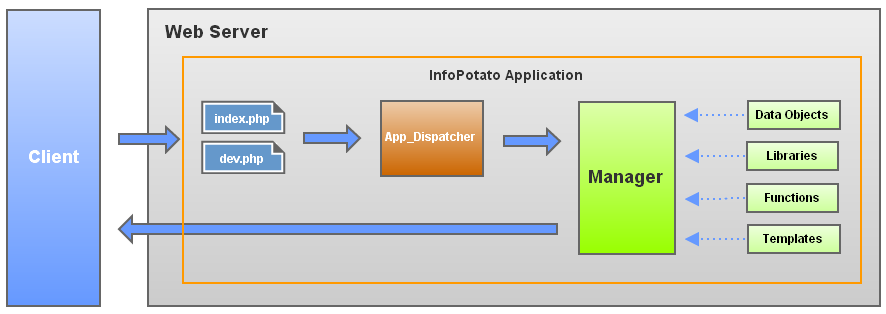
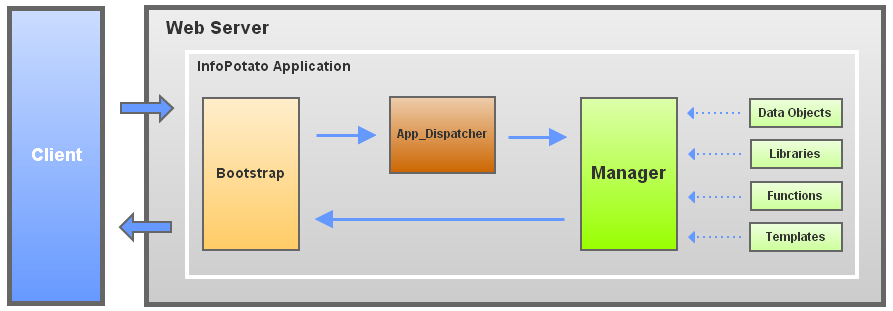
updated workflow picture

Changed region(s): [[0.0, 0.0, 1.0, 1.0]]

diff --git a/application/templates/pages/documentation_workflow.php b/application/templates/pages/documentation_workflow.php
@@ -15,9 +15,9 @@
 If you want to go deeper with InfoPotato, you should understand how information flows between the framework's layers.
 </p>
 
-<div class="tipbox">
+<h2>Static requests &amp; Application requests</h2>
 <p>
-There are two types of requests, <strong>Static requests</strong> and <strong>Application requests</strong>.
+There are two types of requests, Static requests and Application requests.
 </p>
 
 <ul>
@@ -25,19 +25,19 @@ There are two types of requests, <strong>Static requests</strong> and <strong>Ap
 <strong>Static requests</strong> are made to the static resources and are not handled by InfoPotato. 
 </li>
 <li>
-<strong>Application requests</strong> are requests forwarded to InfoPotato for parsing.
+<strong>Application requests</strong> are requests forwarded to InfoPotato for processing.
 </li>
 </ul>
-</div>
 
-<h2>Request -> Dispatcher - > (Manager -> Response) Lifecycle</h2>
+
+<h2>Application Request &rarr; Bootstrap &rarr; Dispatcher &rarr; (Manager &rarr; Response)</h2>
 <p>
 Every request handled by an InfoPotato application goes through the same basic lifecycle. The framework takes care of the repetitive tasks and ultimately executes a manager, which houses your custom application code. The picture below shows the basic workflow of an application request processed by InfoPotato.
 </p>
 
 <div class="content_image"> 
 <p><strong>A typical workflow of InfoPotato application</strong></p> 
-<img src="<?php echo STATIC_URI_BASE; ?>images/content/workflow.png" width="886" height="314" alt="InfoPotato Application Workflow" /> 
+<img src="<?php echo STATIC_URI_BASE; ?>images/content/workflow.png" width="893" height="311" alt="InfoPotato Application Workflow" /> 
 </div> 
 
 <ol> 
@@ -45,7 +45,7 @@ Every request handled by an InfoPotato application goes through the same basic l
 The end user interacts (for example, by clicking on a hyperlink or entering a Web site address) with the client (browser, web services client) to make an HTTP request, and then the client sends this request to the web server.
 </li> 
 <li>
-The web server receives the request and passes it to an InfoPotato application via a entry script (e.g., index.php, dev.php) which is responsible for bootstrapping the framework by invoking App_Dispatcher.
+The web server receives the request and passes it to an InfoPotato application via the bootstrap script (which is the page all requests are routed through, e.g., /web/index.php or /web/dev.php). The bootstrap script is responsible for instantiating the framework by invoking App_Dispatcher.
 </li> 
 <li>
 App_Dispatcher is the subclass of the core Dispatcher, which provides the actual incoming request analysis. It reads the request information (parses the request method, the URI segments), and determines from the URI segments which manager and manager method should be called and what parameters to pass to the manager method.
@@ -57,7 +57,6 @@ The manager is invoked and prepares the resource identified by the incoming URI.
 When the manager finishes processing the request, it sends the HTTP response info (headers + body content) back to the web server and the web server forwards it to the client.
 </li>
 </ol> 
- 
 
 </div> 
 <!-- end onecolumn -->

diff --git a/application/templates/pages/documentation_dispatcher.php b/application/templates/pages/documentation_dispatcher.php
@@ -12,7 +12,7 @@
 <h1 class="first_heading">Dispatcher</h1>	
 
 <p>
-All incoming application requests enter the framework via a single point of entry script, which is index.php or dev.php. The entry script represents the execution context of request processing. It also serves as the central place for keeping application-level configurations.
+As you may already know, the web server receives the requests and passe them to an InfoPotato application via the bootstrap script (e.g., index.php, dev.php) which is responsible for instantiating the framework by invoking App_Dispatcher, in which all requests are intercepted and dispatched to individual Managers based on the URI requested.
 </p>
 
 <h2>What is Dispatcher and what does it do?</h2>
@@ -21,10 +21,10 @@ In InfoPotato, dispatcher represents the execution context of the initial applic
 </p> 
 
 <ul>
-<li>receives incoming request inputs from the web server</li>
+<li>receives incoming request inputs from the bootscript script</li>
 <li>gets the request method (only 'GET' and 'POST' are supported) and parses the URI based on the PATH_INFO pattern</li>
 <li>filters URI segments for malicious characters based on the PERMITTED_URI_CHARS</li>
-<li>invokes the appropriate manager and corret method(s) inside that manager with URI parameters</li>
+<li>invokes the appropriate manager and corret method(s) of that manager with URI parameters</li>
 <li>hands over control to the invoked manager and manager method which will actually processes the request</li>
 </ul>
 
@@ -34,7 +34,7 @@ App_Dispatcher is a subclass of Dispatcher. It gives the developers the option t
 </p>
 
 <p class="tipbox">
-Think of the Dispatcher as the gatekeeper. It doesn't perform any real web or business logic, but rather delegates to Managers where the real work is done.
+You can think of the Dispatcher as the gatekeeper. It doesn't perform any real web or business logic, but rather delegates to Managers where the real work is done.
 </p>
 
 </div> 

diff --git a/web/dev.php b/web/dev.php
@@ -1,6 +1,6 @@
 <?php
 /**
- * This file acts as the "Single Point of Entry" to your application, all requests are sent to index.php.
+ * This file acts as the "Bootstrap" to your application, all requests are sent to index.php.
  * This file is responsible for initializing the framework: loading files, reading configuration data, 
  * parsing the URI into actionable information, and populating the objects that encapsulate the request. 
  */

diff --git a/web/index.php b/web/index.php
@@ -1,6 +1,6 @@
 <?php
 /**
- * This file acts as the "Single Point of Entry" to your application, all requests are sent to index.php.
+ * This file acts as the "Bootstrap" to your application, all requests are sent to index.php.
  * This file is responsible for initializing the framework: loading files, reading configuration data, 
  * parsing the URI into actionable information, and populating the objects that encapsulate the request. 
  */

diff --git a/application/templates/css/main.css.php b/application/templates/css/main.css.php
@@ -772,4 +772,3 @@ top: -4px;
 right: -4px; 
 opacity: 0.9; 
 }
-
